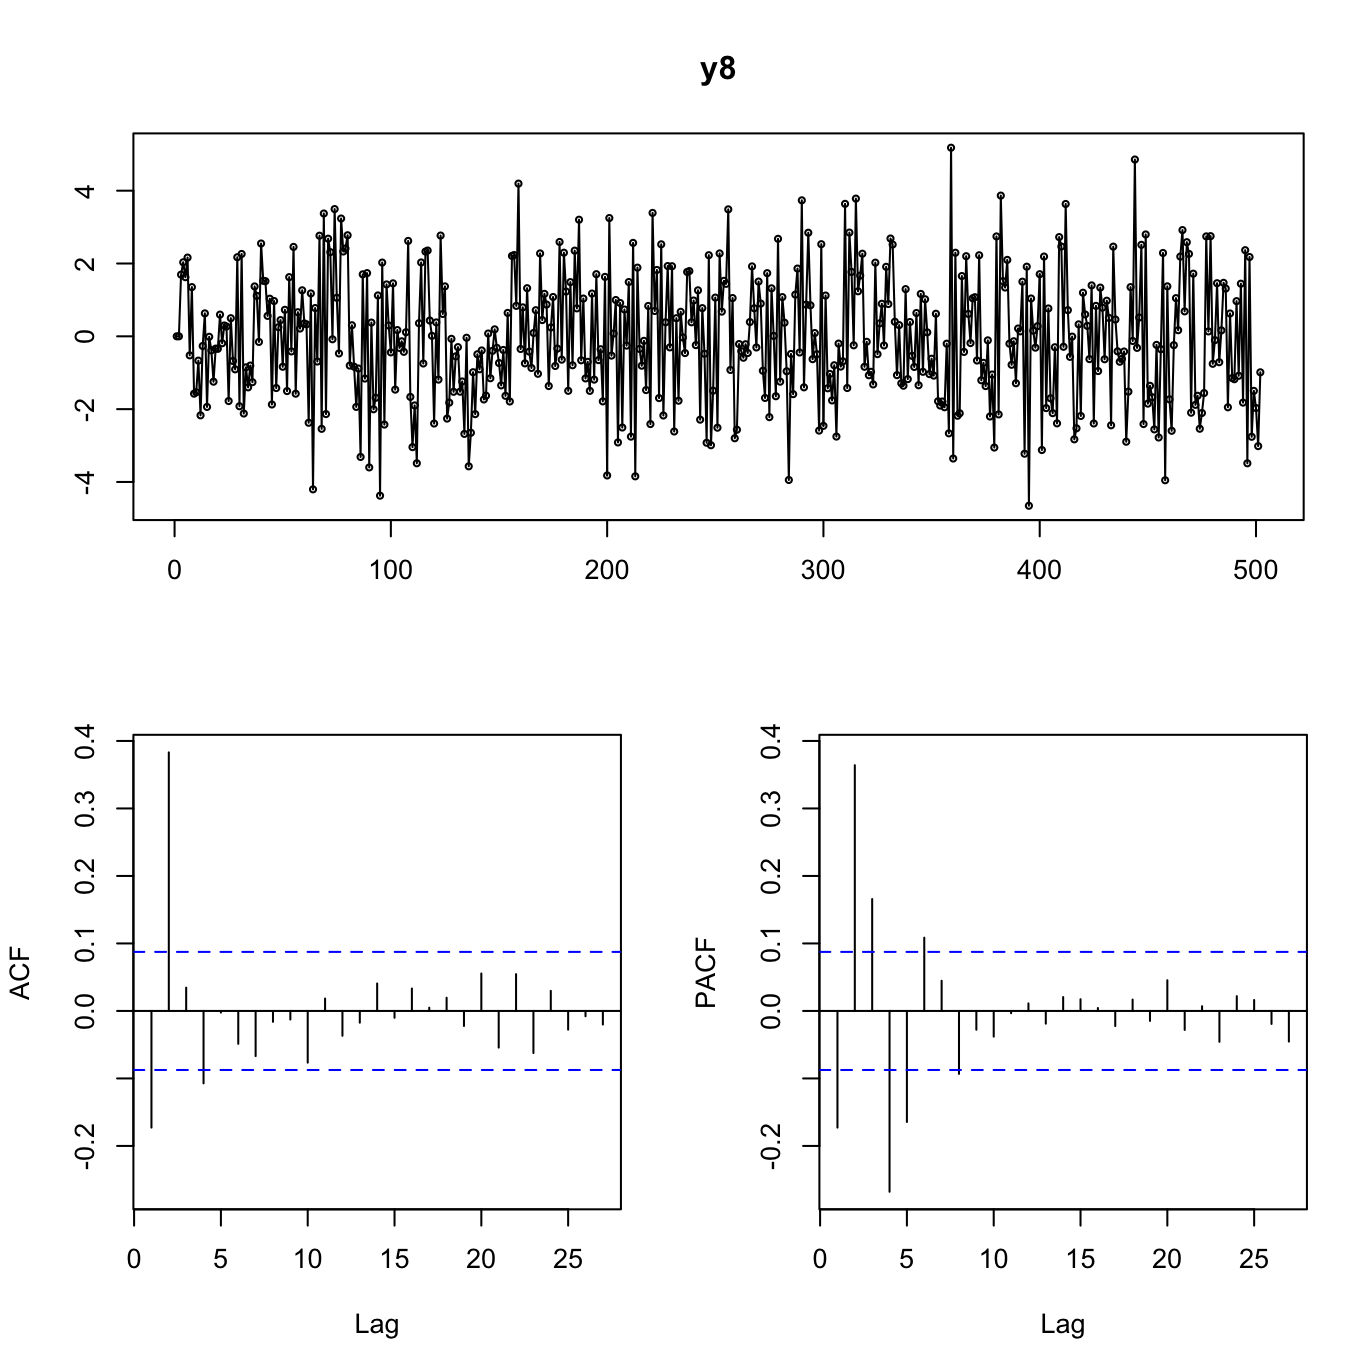
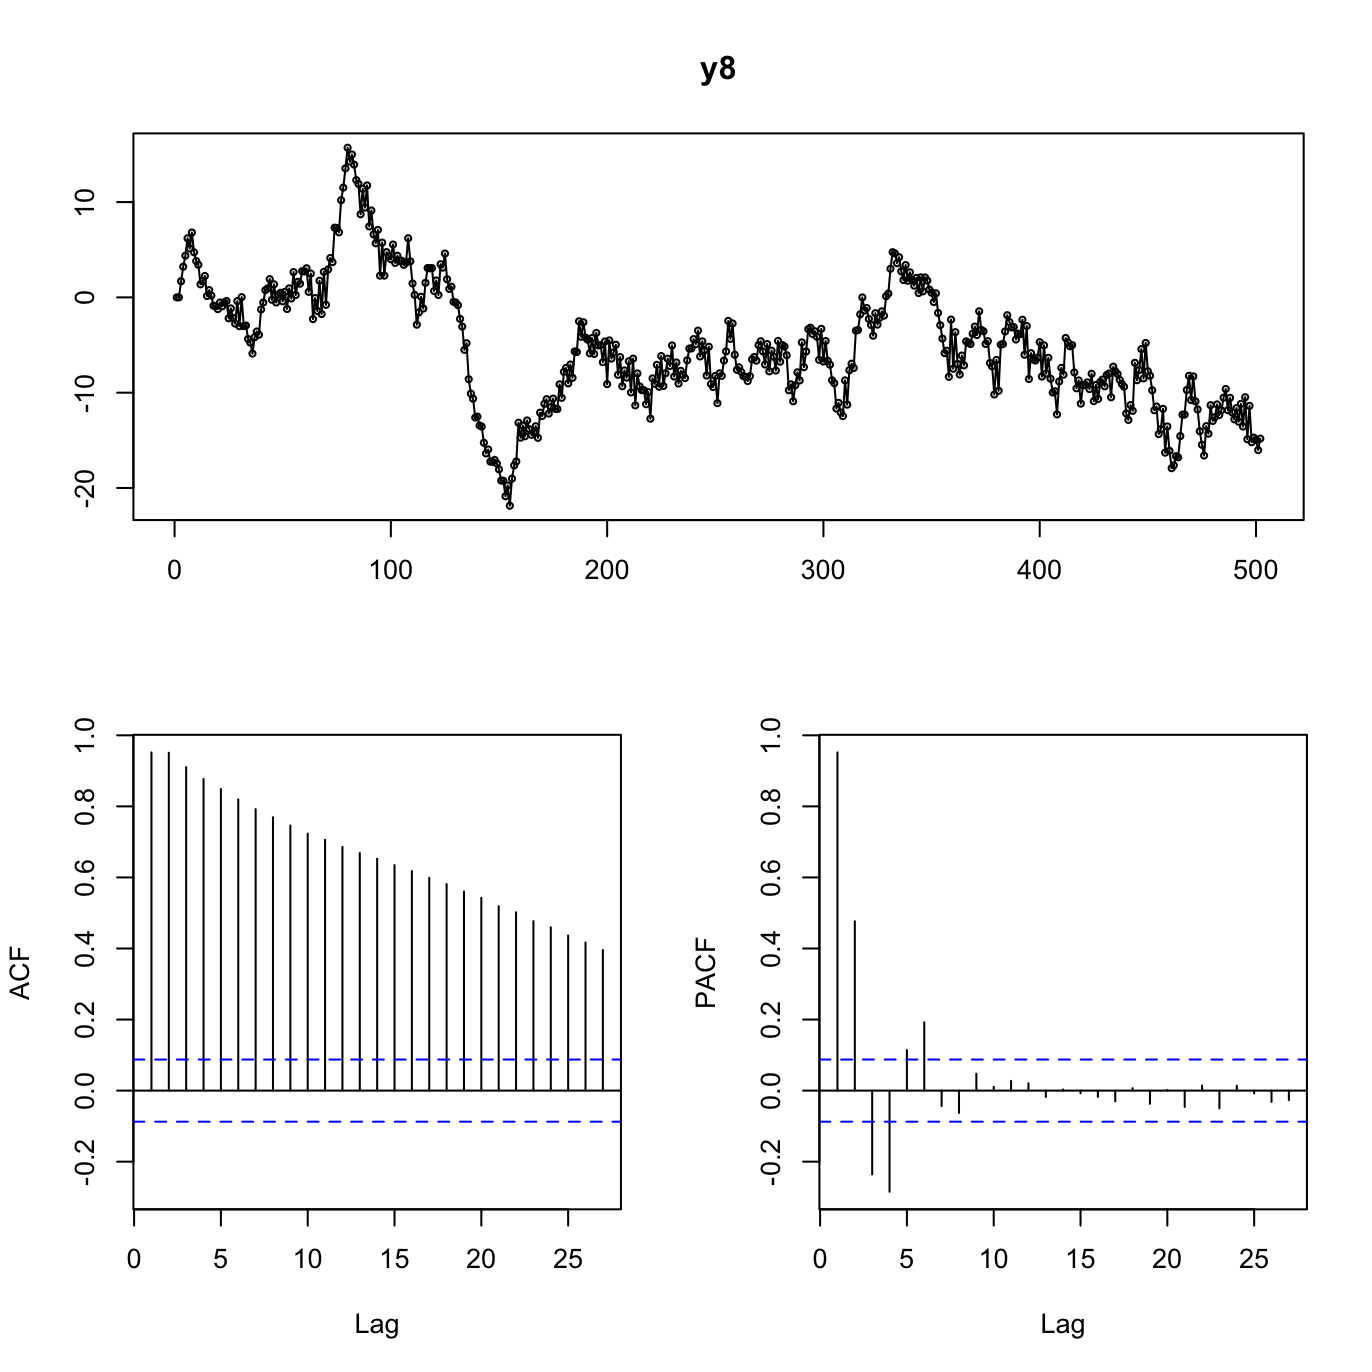
i -> t

diff --git a/2019n-02/index.html b/2019n-02/index.html
@@ -97,7 +97,7 @@ plot.ts(y2)
 ```
 
 &lt;img src="index_files/figure-html/unnamed-chunk-2-1.png" height="300" style="display: block; margin: auto;" /&gt;
-
+jjjj
 ---
 
 ## シミュレーション3:  `\(\phi_1 = 1\)`
@@ -363,7 +363,7 @@ c(phi1, phi2, th1, th2)
 ```r
 y8 &lt;- numeric(T)
 for (t in seq_along(eps)[-c(1, 2)]){
-  y8[t] &lt;- (c + phi1 * y8[i-1] + phi2 * y8[i-2] 
+  y8[t] &lt;- (c + phi1 * y8[t-1] + phi2 * y8[t-2] 
               + eps[t] + th1 * eps[t-1] + th2 * eps[t-2])
 }
 ```
@@ -465,12 +465,12 @@ Arima(y9, order = c(2, 1, 2))
 ## ARIMA(2,1,2) 
 ## 
 ## Coefficients:
-##           ar1      ar2      ma1     ma2
-##       -0.0038  -0.0415  -0.1514  0.6233
-## s.e.   0.0809   0.0686   0.0660  0.0504
+##          ar1     ar2      ma1     ma2
+##       0.7057  0.2703  -0.1702  0.6076
+## s.e.  0.0651  0.0650   0.0539  0.0375
 ## 
-## sigma^2 estimated as 2.22:  log likelihood=-909.09
-## AIC=1828.17   AICc=1828.3   BIC=1849.26
+## sigma^2 estimated as 2.188:  log likelihood=-907.33
+## AIC=1824.66   AICc=1824.78   BIC=1845.74
 ```
 
 
@@ -509,15 +509,15 @@ auto.arima(y9)
 
 ```
 ## Series: y9 
-## ARIMA(0,1,2) 
+## ARIMA(0,2,3) 
 ## 
 ## Coefficients:
-##           ma1     ma2
-##       -0.1555  0.6001
-## s.e.   0.0364  0.0349
+##           ma1     ma2      ma3
+##       -0.4574  0.6931  -0.1950
+## s.e.   0.0437  0.0350   0.0449
 ## 
-## sigma^2 estimated as 2.213:  log likelihood=-909.27
-## AIC=1824.54   AICc=1824.59   BIC=1837.19
+## sigma^2 estimated as 2.201:  log likelihood=-905.73
+## AIC=1819.46   AICc=1819.54   BIC=1836.32
 ```
 
 
